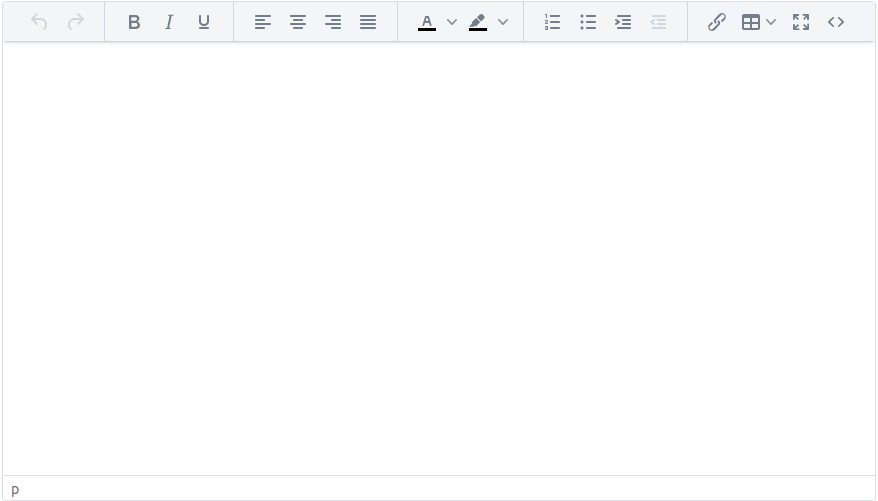
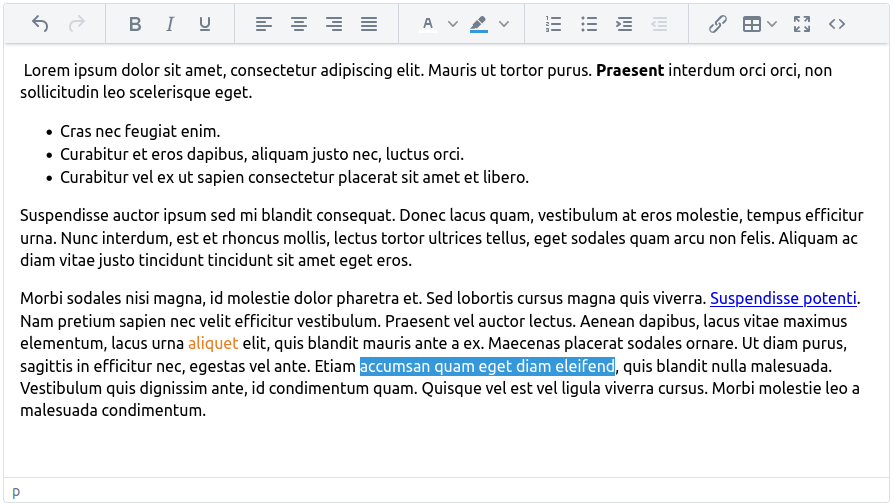
load plugins from menubar

diff --git a/jmix-tinymce/src/main/java/gr/netmechanics/jmix/tinymce/component/TinyMceMenu.java b/jmix-tinymce/src/main/java/gr/netmechanics/jmix/tinymce/component/TinyMceMenu.java
@@ -1,26 +1,55 @@
 package gr.netmechanics.jmix.tinymce.component;
 
+import static gr.netmechanics.jmix.tinymce.component.TinyMcePlugin.ANCHOR;
+import static gr.netmechanics.jmix.tinymce.component.TinyMcePlugin.AUTOSAVE;
+import static gr.netmechanics.jmix.tinymce.component.TinyMcePlugin.CHARACTER_MAP;
+import static gr.netmechanics.jmix.tinymce.component.TinyMcePlugin.CODE;
+import static gr.netmechanics.jmix.tinymce.component.TinyMcePlugin.CODE_SAMPLE;
+import static gr.netmechanics.jmix.tinymce.component.TinyMcePlugin.EMOTICONS;
+import static gr.netmechanics.jmix.tinymce.component.TinyMcePlugin.FULLSCREEN;
+import static gr.netmechanics.jmix.tinymce.component.TinyMcePlugin.IMAGE;
+import static gr.netmechanics.jmix.tinymce.component.TinyMcePlugin.INSERT_DATETIME;
+import static gr.netmechanics.jmix.tinymce.component.TinyMcePlugin.LINK;
+import static gr.netmechanics.jmix.tinymce.component.TinyMcePlugin.MEDIA;
+import static gr.netmechanics.jmix.tinymce.component.TinyMcePlugin.NON_BREAKING;
+import static gr.netmechanics.jmix.tinymce.component.TinyMcePlugin.PAGE_BREAK;
+import static gr.netmechanics.jmix.tinymce.component.TinyMcePlugin.PREVIEW;
+import static gr.netmechanics.jmix.tinymce.component.TinyMcePlugin.SEARCH_REPLACE;
+import static gr.netmechanics.jmix.tinymce.component.TinyMcePlugin.TEMPLATE;
+import static gr.netmechanics.jmix.tinymce.component.TinyMcePlugin.VISUAL_BLOCKS;
+import static gr.netmechanics.jmix.tinymce.component.TinyMcePlugin.VISUAL_CHARACTERS;
+import static gr.netmechanics.jmix.tinymce.component.TinyMcePlugin.WORD_COUNT;
+
+import java.util.Set;
+
 /**
  * @author Panos Bariamis (pbaris)
  */
 public enum TinyMceMenu implements TinyMceEnum {
-    FILE("file"),
-    EDIT("edit"),
-    VIEW("view"),
-    INSERT("insert"),
-    FORMAT("format"),
-    TOOLS("tools"),
-    TABLE("table"),
-    HELP("help");
+    FILE("file", Set.of(AUTOSAVE, PREVIEW)),
+    EDIT("edit", Set.of(SEARCH_REPLACE)),
+    VIEW("view", Set.of(CODE, VISUAL_BLOCKS, VISUAL_CHARACTERS, PREVIEW, FULLSCREEN)),
+    INSERT("insert", Set.of(IMAGE, LINK, MEDIA, TEMPLATE, CODE_SAMPLE, TinyMcePlugin.TABLE,
+        CHARACTER_MAP, EMOTICONS, PAGE_BREAK, NON_BREAKING, ANCHOR, INSERT_DATETIME)),
+    FORMAT("format", Set.of(VISUAL_BLOCKS)),
+    TOOLS("tools", Set.of(CODE, WORD_COUNT)),
+    TABLE("table", Set.of(TinyMcePlugin.TABLE)),
+    HELP("help", Set.of(TinyMcePlugin.HELP));
 
     public final String jsName;
+    public final Set<TinyMcePlugin> plugins;
 
-    TinyMceMenu(String jsName) {
+    TinyMceMenu(final String jsName, final Set<TinyMcePlugin> plugins) {
         this.jsName = jsName;
+        this.plugins = plugins;
     }
 
     @Override
     public String getJsName() {
         return jsName;
+    }
+
+    public Set<TinyMcePlugin> getPlugins() {
+        return plugins;
     }
 }

diff --git a/jmix-tinymce/src/main/java/gr/netmechanics/jmix/tinymce/TinyMceEditorLoader.java b/jmix-tinymce/src/main/java/gr/netmechanics/jmix/tinymce/TinyMceEditorLoader.java
@@ -81,12 +81,12 @@ public class TinyMceEditorLoader extends AbstractComponentLoader<TinyMceEditor> 
             var toolbar = new ArrayList<>(configMode.getToolbar());
             viewToolbar.stream().filter(it -> !toolbar.contains(it)).forEach(toolbar::add);
             applyToolbarConfig(toolbar);
-            applyPluginsConfig(toolbar);
+            applyPluginsConfig(menubar, toolbar);
 
         } else {
             applyConfig(viewMenubar, "menubar", true);
             applyToolbarConfig(viewToolbar);
-            applyPluginsConfig(viewToolbar);
+            applyPluginsConfig(viewMenubar, viewToolbar);
         }
     }
 
@@ -127,11 +127,15 @@ public class TinyMceEditorLoader extends AbstractComponentLoader<TinyMceEditor> 
             .toArray(String[]::new));
     }
 
-    private void applyPluginsConfig(final List<TinyMceButton> toolbar) {
-        Set<TinyMcePlugin> plugins = toolbar.stream()
+    private void applyPluginsConfig(final List<TinyMceMenu> menubar, final List<TinyMceButton> toolbar) {
+        Set<TinyMcePlugin> plugins = menubar.stream()
+            .flatMap(m -> m.getPlugins().stream())
+            .collect(Collectors.toSet());
+
+        plugins.addAll(toolbar.stream()
             .map(TinyMceButton::getPlugin)
             .filter(Objects::nonNull)
-            .collect(Collectors.toSet());
+            .collect(Collectors.toSet()));
 
         applyConfig(plugins, "plugins", false);
     }

diff --git a/jmix-tinymce/src/main/java/gr/netmechanics/jmix/tinymce/component/TinyMceConfigMode.java b/jmix-tinymce/src/main/java/gr/netmechanics/jmix/tinymce/component/TinyMceConfigMode.java
@@ -40,7 +40,7 @@ import java.util.List;
  * @author Panos Bariamis (pbaris)
  */
 
-//TODO github, load plugins based on menubar also
+//TODO github
 public enum TinyMceConfigMode {
     BASIC(emptyList(), List.of(
         UNDO, REDO, SEPARATOR,

diff --git a/README.md b/README.md
@@ -44,13 +44,19 @@ or through code
 
 ## Configuration
 
+We can configure the editor, based on predefined configuration modes, provide custom configuration or combine the two.
+
+> [!NOTE]  
+> If no other configuration is specified, the _BASIC_ configuration mode is used.
+
 ### Config Modes
 There are two configuration modes, BASIC and ADVANCED. Both modes have no menubar, but a single toolbar with buttons:
 
 **BASIC**
 
 ```xml
-<nm:tinyMceEditor id="summaryField" property="summary" configMode="BASIC" />
+<nm:tinyMceEditor id="summaryField" property="summary" 
+                  configMode="BASIC" />
 ```
 
 BOLD, ITALIC, UNDERLINE, ALIGN_LEFT, ALIGN_CENTER, ALIGN_RIGHT, ALIGN_JUSTIFY, FORECOLOR, BACKCOLOR, NUMBERS_LIST, BULLETS_LIST, INDENT, OUTDENT, LINK, TABLE, FULLSCREEN, CODE
@@ -60,7 +66,8 @@ BOLD, ITALIC, UNDERLINE, ALIGN_LEFT, ALIGN_CENTER, ALIGN_RIGHT, ALIGN_JUSTIFY, F
 **ADVANCED**
 
 ```xml
-<nm:tinyMceEditor id="summaryField" property="summary" configMode="ADVANCED" />
+<nm:tinyMceEditor id="summaryField" property="summary" 
+                  configMode="ADVANCED" />
 ```
 
 UNDO, REDO, CUT, COPY, PASTE, PASTE_TEXT, BOLD, ITALIC, UNDERLINE, SUBSCRIPT, SUPERSCRIPT, ALIGN_LEFT, ALIGN_CENTER, ALIGN_RIGHT, ALIGN_JUSTIFY, FORECOLOR, BACKCOLOR, NUMBERS_LIST, BULLETS_LIST, INDENT, OUTDENT, LINK, UNLINK, TABLE, MEDIA, HR, CHARACTER_MAP, VISUAL_BLOCKS, REMOVE_FORMAT, FULLSCREEN, CODE
@@ -81,10 +88,14 @@ We can provide our own configuration per editor. We can config the menubar and t
 
 ### Combined Config
 
-We can use any of the configuration modes and also add menubar and additional toolbar(s) buttons.
+We can combine any of the configuration modes with custom menubar and toolbar(s) configuration.
 
 ```xml
-<nm:tinyMceEditor id="summaryField" property="summary" configMode="BASIC" toolbar="UNLINK MEDIA"/>
+<nm:tinyMceEditor id="summaryField" property="summary" 
+                  configMode="BASIC" 
+                  toolbar="UNLINK MEDIA"/>
 ```
 
 ![](./docs/preview_combined.png)
+
+### Default 
